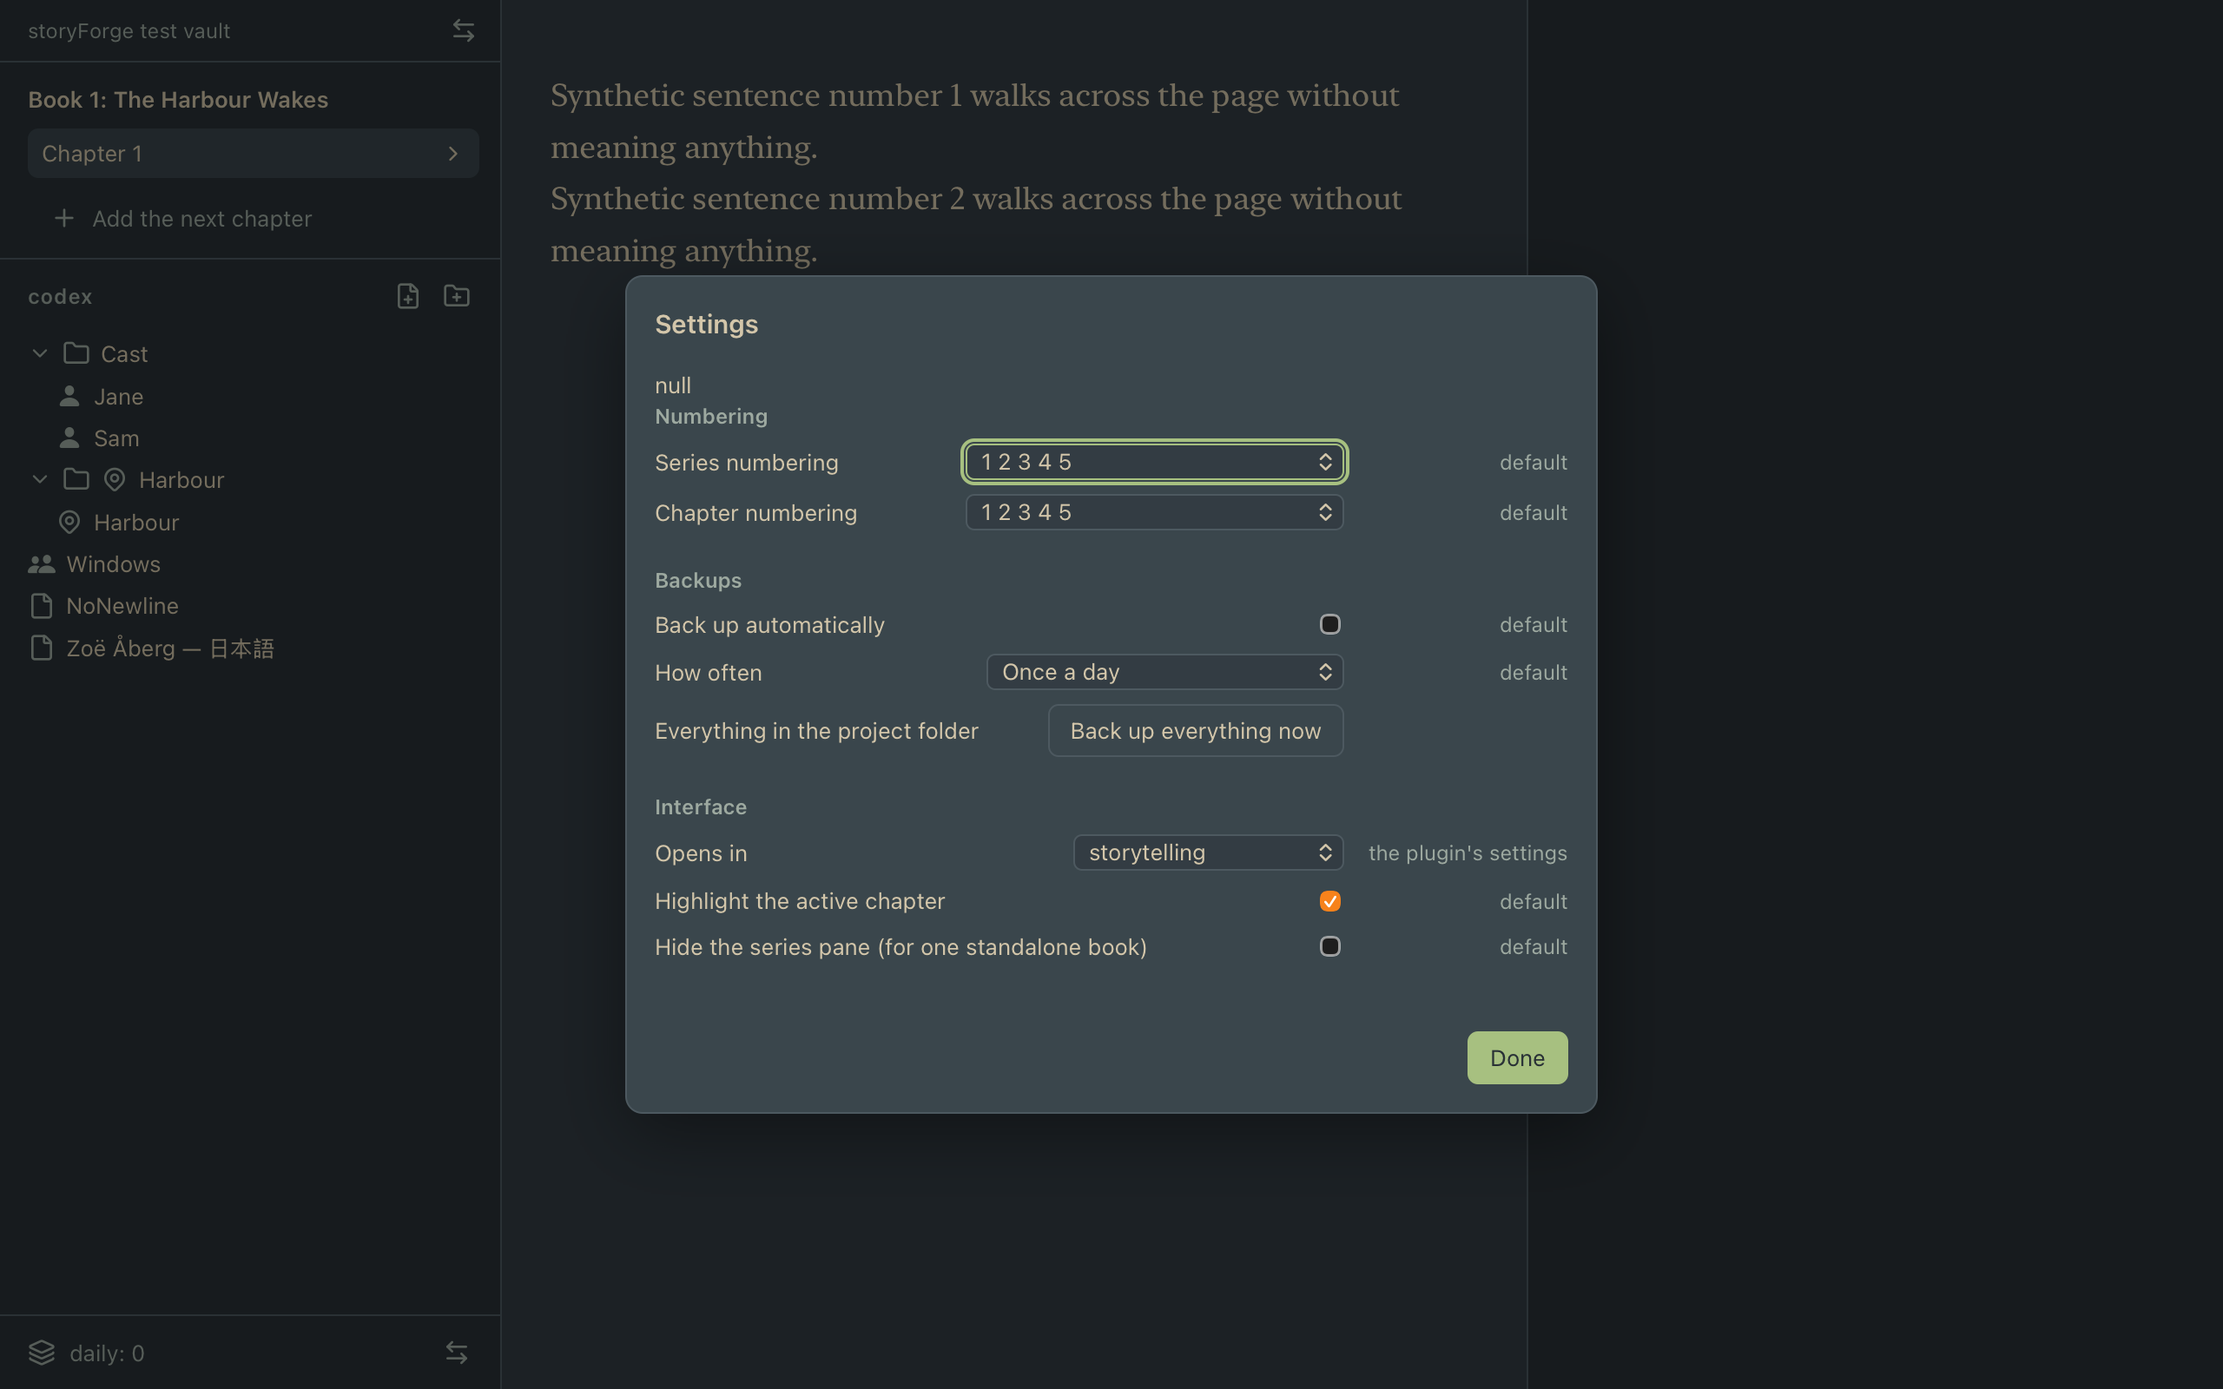
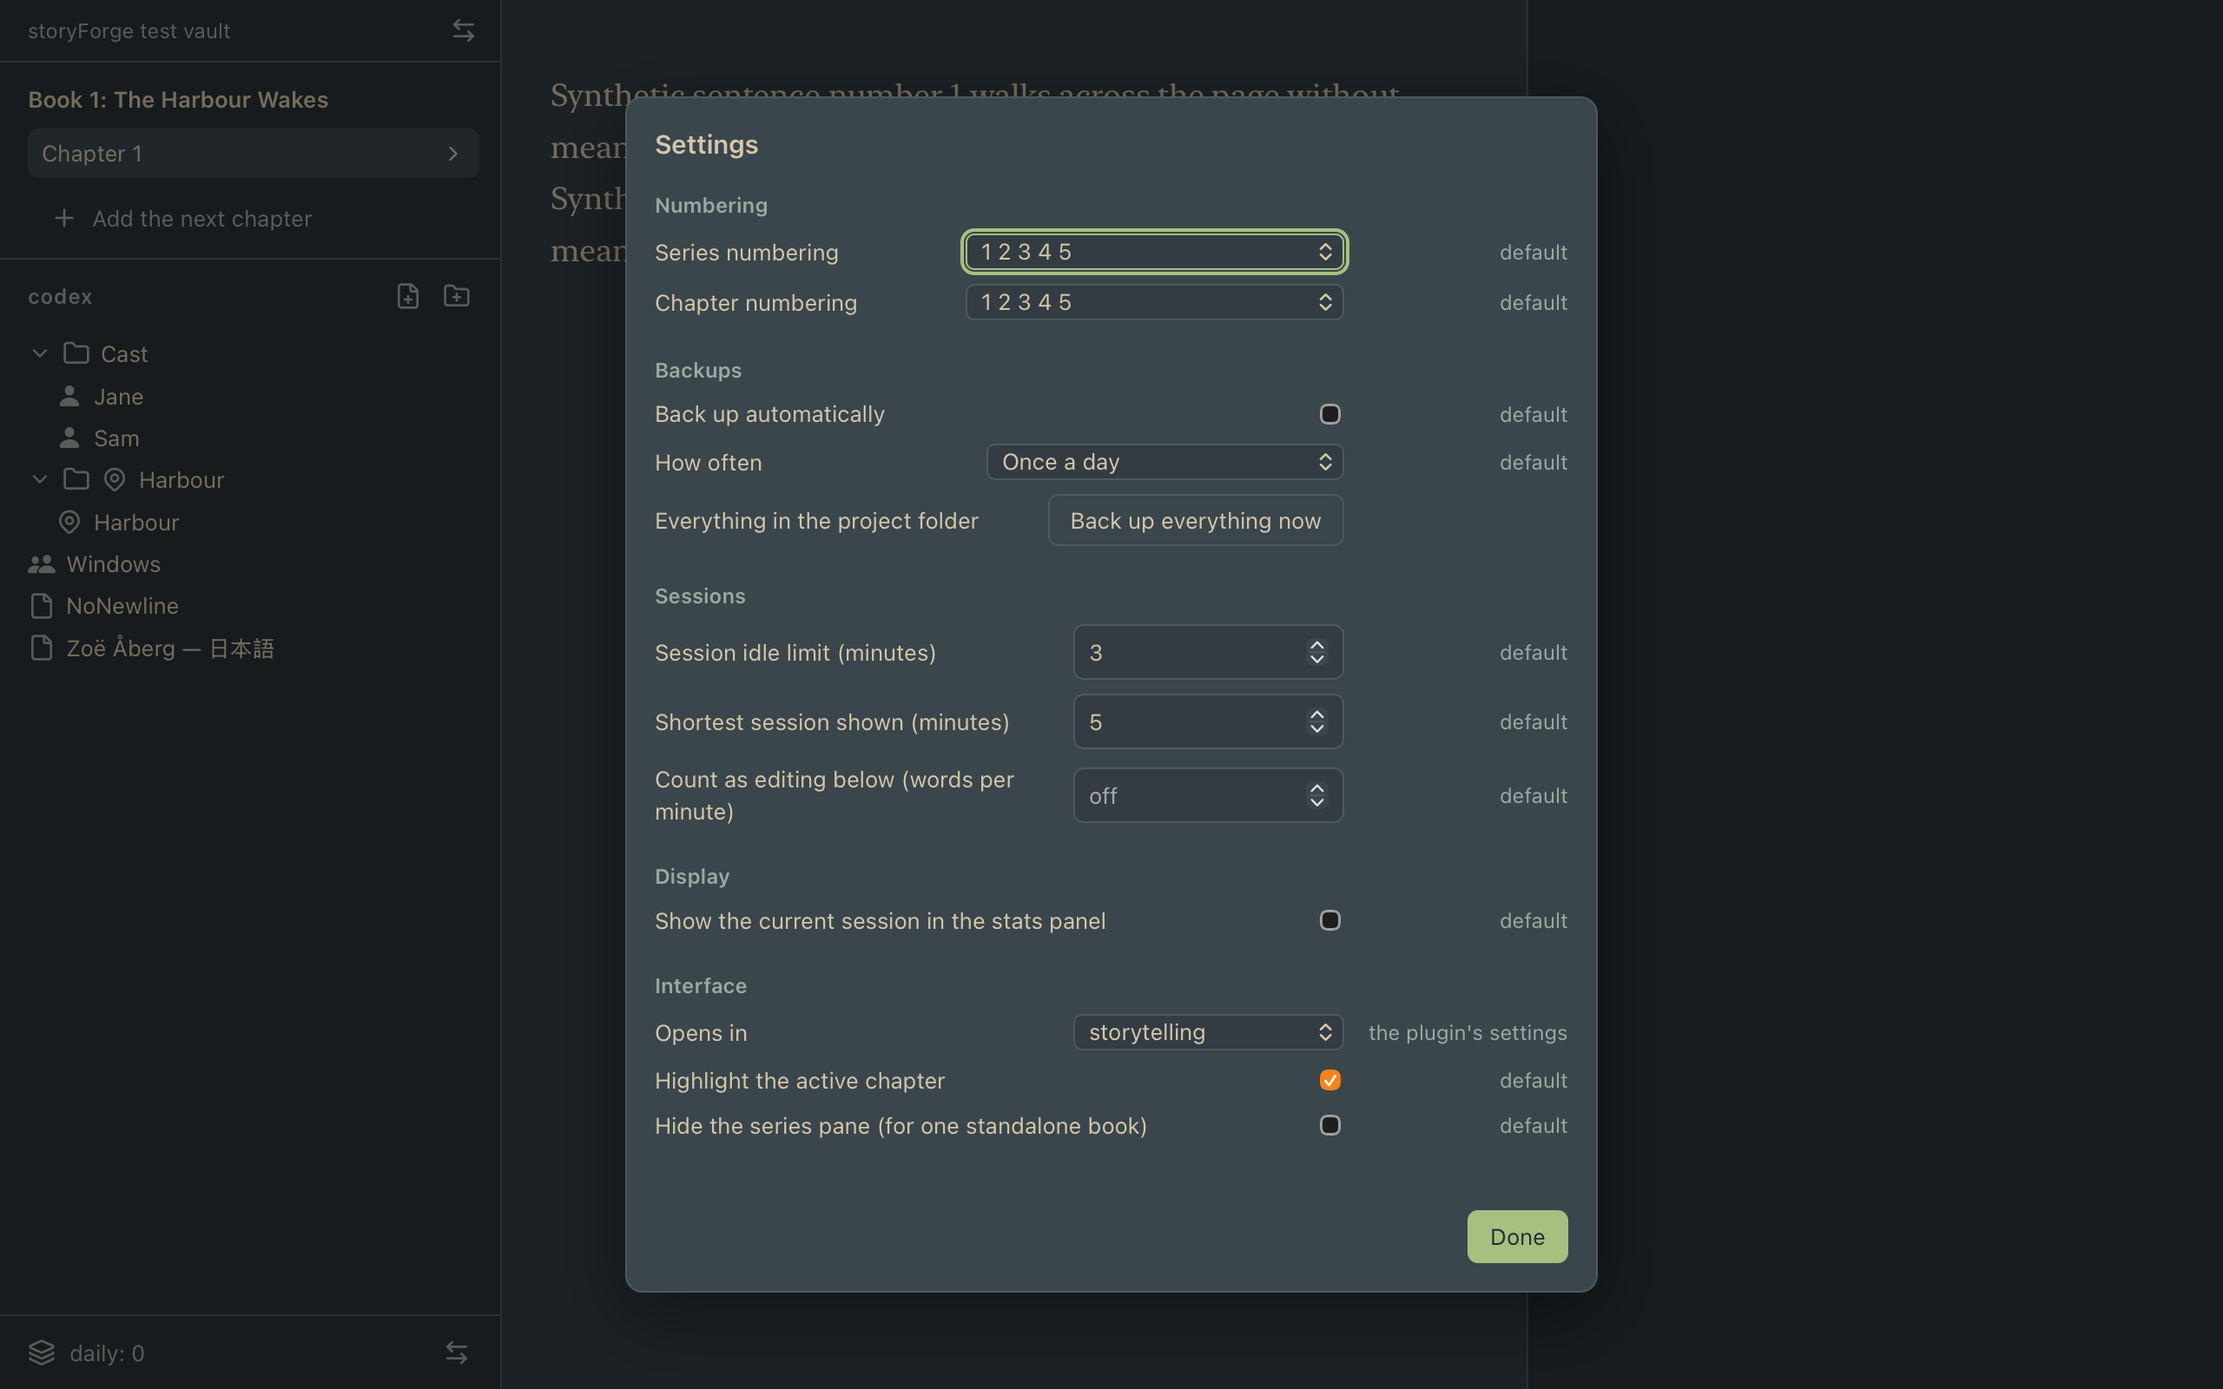
Brief 7 step 9: report, changelog, AGENTS.md and version 0.11.0; screenshots, pace wording, history layout and the settings 'null' fixed

diff --git a/test/ui/sessions.ui.ts b/test/ui/sessions.ui.ts
@@ -52,6 +52,9 @@ test.describe("writing sessions in the history view", () => {
 		await expect(first).toContainText("400 words, 20 words a minute");
 		await expect(first).toContainText("Chapter 1");
 		await expect(list).not.toContainText("11:00");
+		// the day's chapter rows keep their numbers inside the dialog: nothing in the view is wider than the view
+		expect(await page.evaluate(() => { const b = document.querySelector(".sf-dialog-body") as HTMLElement; const r = b.getBoundingClientRect(); return [...b.querySelectorAll("*")].filter((e) => e.getBoundingClientRect().right > r.right + 1).length; })).toBe(0);
+		await list.scrollIntoViewIfNeeded();
 		await shot(page, "sessions-history");
 	});
 
@@ -62,7 +65,8 @@ test.describe("writing sessions in the history view", () => {
 		const row = (time: string) => d.locator(".sf-session", { hasText: time });
 		await expect(row("10:00–10:30").locator(".sf-session-tag")).toHaveText(["unreliable"]);
 		await expect(row("12:00–12:20").locator(".sf-session-tag")).toHaveText(["editing"]);
-		await expect(row("12:00–12:20")).toContainText("net loss of 4 words");
+		await expect(row("12:00–12:20")).toContainText("net loss of 4 words, no pace");
+		await expect(row("10:00–10:30")).toContainText("20 words, 1 word a minute");
 		await expect(row("13:00–13:20").locator(".sf-session-tag")).toHaveText(["recovered"]);
 		await expect(row("09:00–09:20").locator(".sf-session-tag")).toHaveCount(0);
 	});

diff --git a/src/core/__tests__/sessions.test.ts b/src/core/__tests__/sessions.test.ts
@@ -330,3 +330,27 @@ describe("the storytelling figures", () => {
 		expect(Object.keys({ excludedByDay, storytellingDaily, storytellingTodayAndWeek })).toHaveLength(3);
 	});
 });
+
+describe("what tracking costs", () => {
+	it("a keystroke in a 10,000-word chapter does no word counting at all, and no date formatting", () => {
+		const calls = { count: 0, day: 0 };
+		const base = Array.from({ length: 10_000 }, (_, i) => `word${i % 50}`).join(" ");
+		const t = new SessionTracker({
+			idleMs: 3 * MIN,
+			count: (b) => (calls.count++, b.split(/\s+/).length),
+			dayOf: (ms) => (calls.day++, new Date(ms).toISOString().slice(0, 10)),
+			offsetMinutes: () => 0,
+		});
+		let body = base;
+		t.edit({ at: T0, chapter: CH, before: body, after: `${body}x`, origin: "type" });
+		body += "x";
+		const afterFirst = { ...calls };
+		for (let i = 1; i <= 2000; i++) {
+			t.edit({ at: T0 + i * 100, chapter: CH, before: body, after: `${body}y`, origin: "type" });
+			body += "y";
+		}
+		expect(calls.count).toBe(afterFirst.count); // not one count in 2,000 keystrokes
+		expect(calls.day).toBeLessThanOrEqual(afterFirst.day + 5); // the day is looked up once a minute, not per keystroke
+		expect(t.net()).toBe(0); // "x" and "y" glued to the last word add no words; counting happens only here
+	});
+});

diff --git a/src/core/sessions.ts b/src/core/sessions.ts
@@ -109,7 +109,8 @@ export function sessionId(startIso: string): string {
 
 export class SessionTracker {
 	private readonly count: (body: string) => number;
-	private readonly dayOf: (ms: number) => string;
+	private readonly dayOfRaw: (ms: number) => string;
+	private dayMemo = { minute: -1, day: "" };
 	private readonly offsetMinutes: (ms: number) => number;
 	private readonly idleMs: number;
 
@@ -124,8 +125,18 @@ export class SessionTracker {
 	constructor(options: TrackerOptions) {
 		this.idleMs = options.idleMs;
 		this.count = options.count ?? countWords;
-		this.dayOf = options.dayOf ?? ((ms) => todayISOInEngland(new Date(ms)));
+		this.dayOfRaw = options.dayOf ?? ((ms) => todayISOInEngland(new Date(ms)));
 		this.offsetMinutes = options.offsetMinutes ?? localOffsetMinutes;
+	}
+
+	/**
+	 * The day an instant belongs to, remembered per minute: England midnight, and every change of clocks, falls on a
+	 * minute boundary, so a minute never straddles two days. Keeps a keystroke from paying for a date formatter.
+	 */
+	private dayOf(ms: number): string {
+		const minute = Math.floor(ms / 60_000);
+		if (minute !== this.dayMemo.minute) this.dayMemo = { minute, day: this.dayOfRaw(ms) };
+		return this.dayMemo.day;
 	}
 
 	get running(): boolean {

diff --git a/src/ui/screens/settings.ts b/src/ui/screens/settings.ts
@@ -64,7 +64,7 @@ export function openSettings(model: AppModel): void {
 	const redraw = (): void => {
 		const numbering = Object.entries(NUMBERING_STYLE_OPTIONS) as [NumberingStyle, string][];
 		body.replaceChildren(
-			off ? el("p", { class: "sf-muted", text: running.readOnlyReason }) : null!,
+			...(off ? [el("p", { class: "sf-muted", text: running.readOnlyReason })] : []),
 			section("Numbering", [
 				select("seriesNumberingStyle", "Series numbering", numbering, (v) => v as NumberingStyle),
 				select("chapterNumberingStyle", "Chapter numbering", numbering, (v) => v as NumberingStyle),

diff --git a/src/ui/overviews/overviews.css b/src/ui/overviews/overviews.css
@@ -32,7 +32,7 @@
 .sf-bar--link { cursor: pointer; }
 
 /* The history view. */
-.sf-history { min-width: min(560px, 80vw); display: flex; flex-direction: column; gap: 4px; }
+.sf-history { min-width: min(520px, 70vw); display: flex; flex-direction: column; gap: 4px; }
 .sf-history-stats { display: flex; flex-wrap: wrap; gap: 4px 24px; }
 .sf-history-stat { display: flex; flex-direction: column; font-size: 13px; }
 .sf-history-chapter { display: flex; justify-content: space-between; gap: 16px; font-size: 13px; padding: 2px 0; }

diff --git a/test/ui/menus.ui.ts b/test/ui/menus.ui.ts
@@ -147,6 +147,7 @@ test.describe("settings", () => {
 		const d = dialog(page);
 		await expect(d.getByRole("heading", { name: "Settings" })).toBeVisible();
 		await expect(d.getByLabel("Series numbering")).toHaveValue("arabic");
+		await expect(d).not.toContainText("null"); // an element left out must not be drawn as the word null
 		await expect(d.locator(".sf-setting-row", { hasText: "Series numbering" })).toContainText("default");
 		await shot(page, "settings");
 		await d.getByRole("button", { name: "Done" }).click();

diff --git a/src/ui/screens/history/sessionsList.ts b/src/ui/screens/history/sessionsList.ts
@@ -14,7 +14,9 @@ export function lengthLabel(minutes: number): string {
 }
 
 export function paceLabel(wpm: number | null): string {
-	return wpm === null ? "no pace" : `${formatWordCount(Math.round(wpm))} words a minute`;
+	if (wpm === null || wpm <= 0) return "no pace";
+	const n = Math.max(1, Math.round(wpm));
+	return `${formatWordCount(n)} ${n === 1 ? "word" : "words"} a minute`;
 }
 
 /** The labels a session carries, in words (never colour alone). */

diff --git a/docs/sessions-report.md b/docs/sessions-report.md
@@ -1,0 +1,95 @@
+# Writing sessions: report (Brief 7, 0.11.0)
+
+Design and rulings: `docs/sessions.md` (§10 the H1 rulings, decision 35; §12 as built).
+
+## What was built
+
+Commits on `sessions`, in the brief's order: step 0 (tests) and its addendum (the quit-state unit tests, the inert proof), step 1 (the design doc), the H1 rulings, 2 (the tracker and the figures), 3 (session files and their disk-safety operations), 4 and 5 together (the in-progress record, recovery, the edit feed, the close step), 6 (settings), 7 and 8 together (the history view and the live readout), 9 (this report, docs and the version).
+
+- `src/core/sessions.ts`, `sessionFigures.ts`, `sessionFiles.ts`; `src/app/sessionRecorder.ts`; `ProseWriter.onAuthorEdit`; the editor supplies each edit's origin (`originOf`).
+- The history view lists a day's sessions and shows the storytelling figures and the average pace; the stats panel's today and week are storytelling figures; a quiet live readout (option, off).
+- Test counts at the end: 1,253 core, 131 WebKit, 35 Rust, all passing; the disk-safety suite grew by three operations, and its coverage test now includes `sessionFiles`.
+
+## Screenshots
+
+- History view, a day's sessions: `docs/interface-shots/sessions-history.png`
+- Live readout: `docs/interface-shots/sessions-readout.png`
+- Settings, Sessions and Display groups: `docs/interface-shots/sessions-settings.png`
+
+## The measurement: what tracking costs, on a 10,000-word chapter
+
+51,439 characters, 10,000 words, measured in Node (best of seven runs; a new string each time, as the editor makes one per keystroke):
+
+| | Cost |
+|---|---|
+| One full word count of the chapter | 0.12 ms |
+| Tracker, per typed keystroke | 0.04 µs (no counting, no date formatting) |
+| Tracker, one paste or drop (two counts, ruling 2) | 0.23 ms (0.25 ms for a 2,000-word paste) |
+| One checkpoint (a count and a small record) | 0.14 ms, at most every 5 s |
+
+For scale, a 60 Hz frame is 16.7 ms. The paste cost is not noticeable, so no hold. A unit test asserts that 2,000 keystrokes in a 10,000-word chapter cause no word count and no per-keystroke date lookup. The measurement found one real cost before the commit: the England-day lookup builds a date formatter, and ran on every keystroke. It is now remembered per minute (exact, because midnight and every change of clocks fall on a minute boundary).
+
+## An example session file, from a fixture
+
+```markdown
+---
+sessions-format: 1
+computer: k7x2q9ab
+sessions:
+  - id: 20260610T094500+0100
+    start: 2026-06-10T09:45:00+01:00
+    end: 2026-06-10T10:32:10+01:00
+    day: 2026-06-10
+    net: 612
+    chapters:
+      - path: aaa/ch-a1.md
+        id: c-a1k3
+        net: 412
+      - path: aaa/ch-a2.md
+        id: c-a2m8
+        net: 200
+    unreliable: false
+    recovered: false
+  - id: 20260610T233000+0100
+    start: 2026-06-10T23:30:00+01:00
+    end: 2026-06-11T00:12:00+01:00
+    day: 2026-06-10
+    net: 330
+    chapters:
+      - path: aaa/ch-a1.md
+        id: c-a1k3
+        net: 330
+        by-day:
+          2026-06-10: 240
+          2026-06-11: 90
+    unreliable: true
+    recovered: true
+---
+Writing sessions recorded by storyForge on one computer for one month. Safe to read; storyForge rewrites this file when a session ends.
+```
+
+## Hold points
+
+None of the brief's holds was hit: the guard needed no new operation or row; `wordcount.md`, the history core and the word counter are unchanged; nothing is written to the project on a keystroke or outside `_backstage/storyforge/sessions/`; tracking does not slow typing. H1 was taken at the design (decision 35).
+
+## Anything surprising
+
+- **A bare ⌘Z in the browser preview undoes an inert editor.** The inert-editor proof (removing `inert` once) showed that the preview's WebKit applies its own document-level undo even when the editor isn't focused. The real app consumes ⌘Z with its Undo menu item, which acts only on a focused editor, so the test checks that route instead. **Kenny's check should try ⌘Z under an overview in the real app.**
+- **Screenshots caught three things the tests passed:** the stray word "null" at the top of the settings dialog (an old slip from Brief 5, now fixed and tested), the history view pushed 18 px past the dialog's edge so a chapter's number was clipped (fixed, with a test that nothing is wider than the view), and "1 words a minute" and "-0 words a minute" in the session list (now "1 word a minute" and "no pace").
+- **The browser preview's clock:** the session tests use Playwright's fake clock, so "pause past the limit" takes milliseconds. The recorder judges the idle limit against the clock, which is what makes that valid.
+- **Machine settings gained two names** in the Rust allow-list (`computer`, `session/<sha>`), with a Rust test; no new command.
+- **The disk-wins edge:** when a conflict replaces the author's unsaved text with the disk's, those words stay in the session's net though they went to a recovery file. Noted in the design; rare.
+
+## The quit smoke script
+
+`npm run test:quit` now also checks that each route's close wrote a session file naming the chapter, and that it was ended by the close, not recovered. **It has not been run on this build:** the Mac's screen was locked when it was tried, and the script refuses to run then. It needs to be run on an unlocked Mac, with the app built (`npm run app:build`), before the check below.
+
+## Kenny's check (from the brief)
+
+1. Write for at least five minutes, pausing for no more than a minute at a time; stop for more than three. One session, right times, sensible words and pace.
+2. Write again, then quit with ⌘Q straight away. Reopen: that session is there, ending at your last edit.
+3. Paste a few hundred words and carry on. That session is labelled unreliable, left out of the day's figures; the chapter's own bar still counts the words.
+4. Delete a paragraph and stop. Labelled editing, left out of the figures.
+5. Edit a Codex note for a minute. No session appears.
+6. Turn on the live readout in settings, write, watch it count, turn it off.
+7. (Added) ⌘Z under an overview, as above.

diff --git a/CHANGELOG.md b/CHANGELOG.md
@@ -1,5 +1,17 @@
 # Changelog
 
+## Unreleased — writing sessions (0.11.0)
+
+Each writing session is recorded: when it started and ended, to the second, the words it added to the story, and its pace. Sessions are listed in the history view, and editing or pasted-in sessions are left out of the storytelling figures. This is a deliberate, additive change to the 0.17 disk format (decision 34): one new folder, `_backstage/storyforge/sessions/`, read by nothing else; `format-version` is unchanged. See `docs/sessions.md` (the design, rulings in §10, as built in §12) and `docs/sessions-report.md`.
+
+- New: a session starts at the author's first edit in a chapter and ends at its last edit when 3 minutes (a setting) pass with none, the project closes, the app quits by any route, or the Mac wakes. Only the author's own edits count: never reloads, link rewrites, reconciliation, Codex notes or archived chapters.
+- New: session files, one per month per computer (`<YYYY-MM>-<random id>.md`), written only when a session ends; the session in progress lives in the app's data folder and a crashed one is finished at the next open, marked recovered. A file that can't be read is never rewritten.
+- New: the history view lists a day's sessions (times, length, words, pace, chapters, and the words "editing", "unreliable", "recovered") and the average pace with its number of sessions. Today, this week, the days, the weeks and the heatmaps are the storytelling figures: they leave out editing sessions and sessions with a paste or drop over 30 words. Chapter, novel and series counts and every bar still count every word.
+- New: Sessions settings (idle limit, shortest session shown, count as editing below a pace) and a Display group with the live session readout in the stats panel (off by default).
+- Changed: ending the session is a step in the close path (after the editors flush, before the snapshot), and counts as progress for the watchdog. `ProseWriter.onAuthorEdit` is a new observer (it can never change a write's outcome); the editor says where each edit came from. Machine settings gain `computer` and `session/<sha>`.
+- Fixed: the settings dialog drew the word "null" above its first group when the project was writable (an old slip from Brief 5, caught by a screenshot).
+- Tests: 1,253 core tests, 131 WebKit interface tests and 35 Rust tests, all passing.
+
 ## Unreleased — Fix 1: quitting from the Dock (0.10.1)
 
 Quitting from the Dock, logging out and shutting down used to end the app without telling the window, losing the last 2 seconds of typing and able to cut a Codex rename off partway. They now run the same close as Cmd+Q. See `docs/quit-paths.md`.
